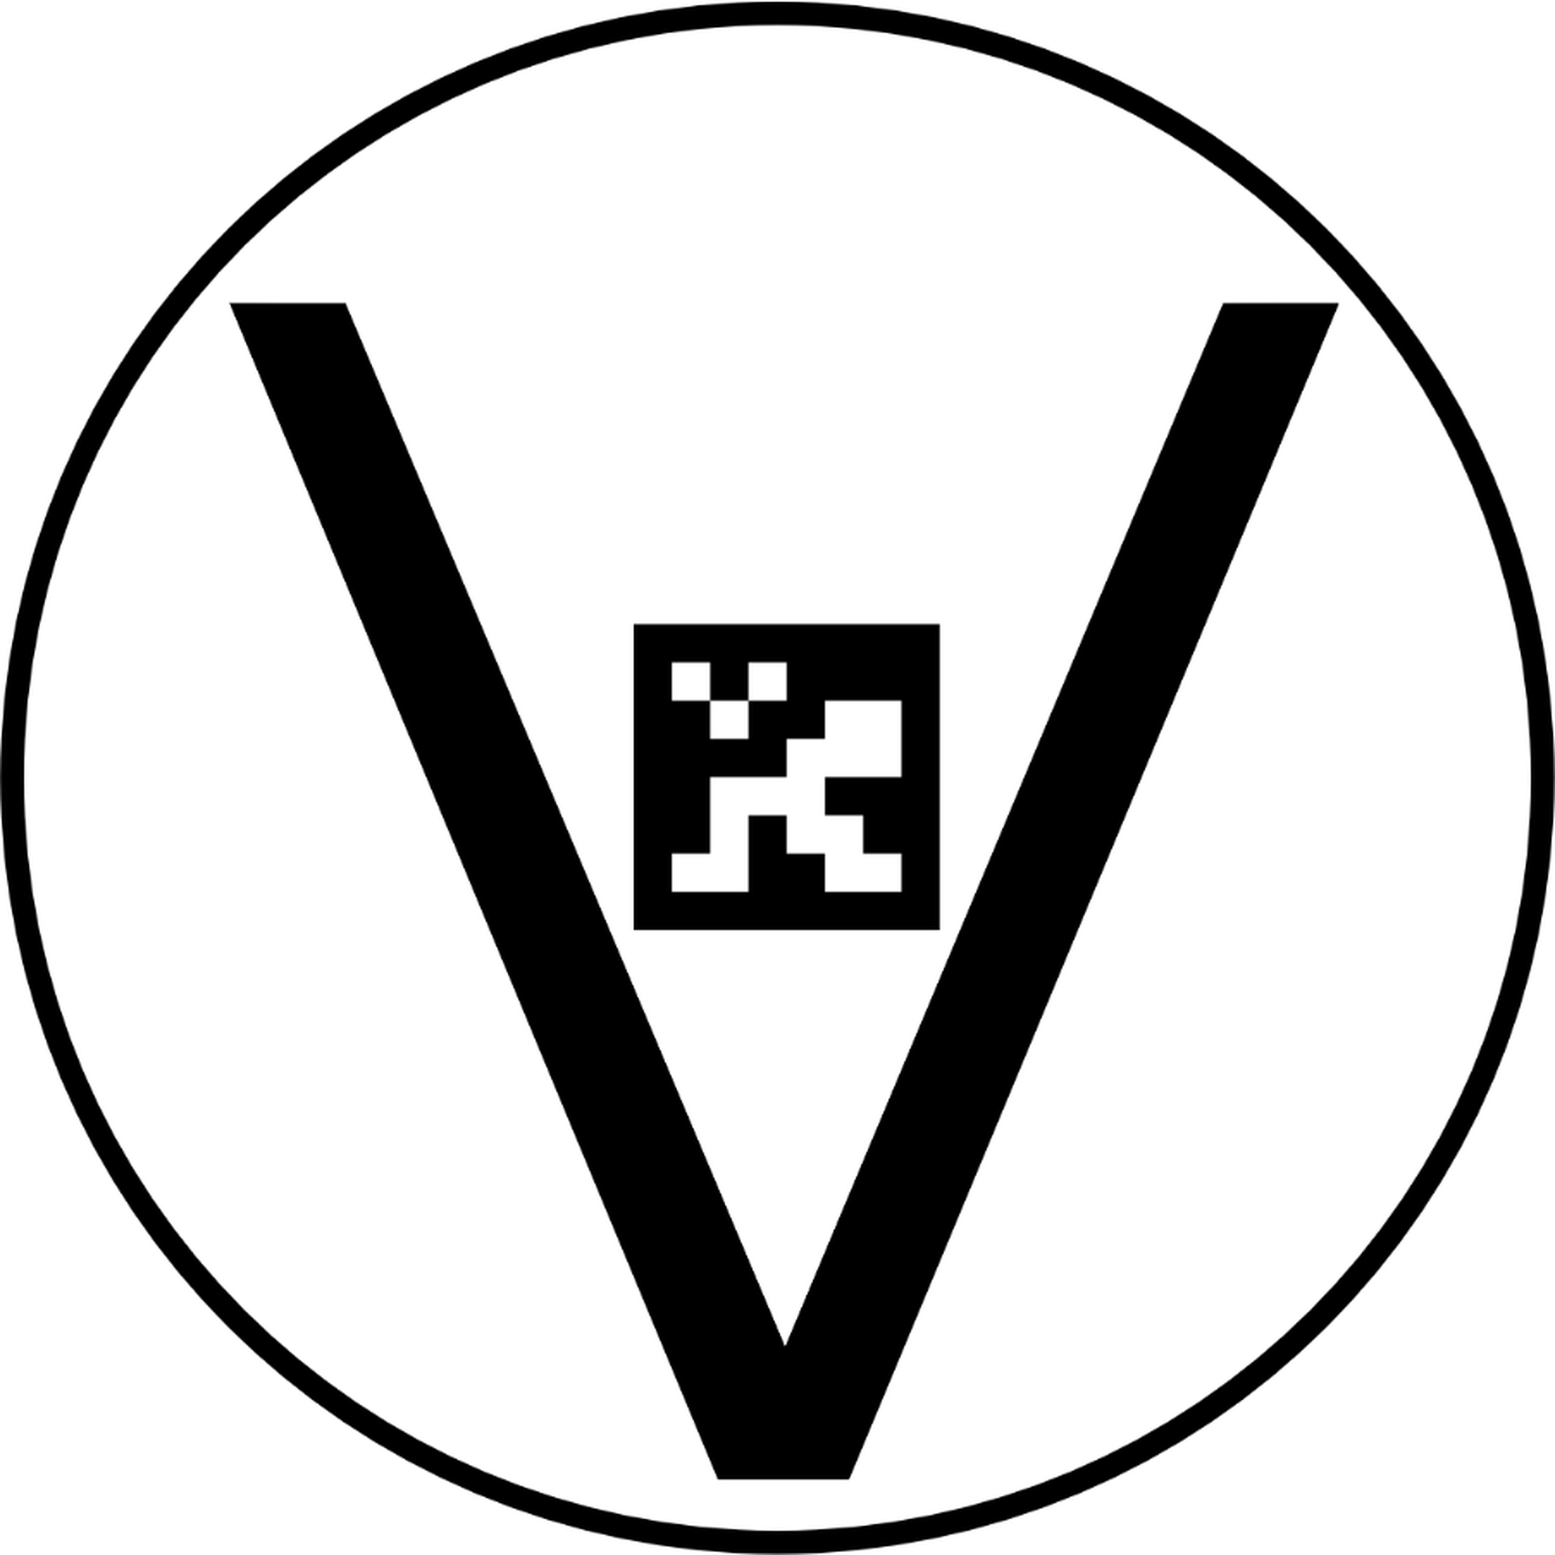
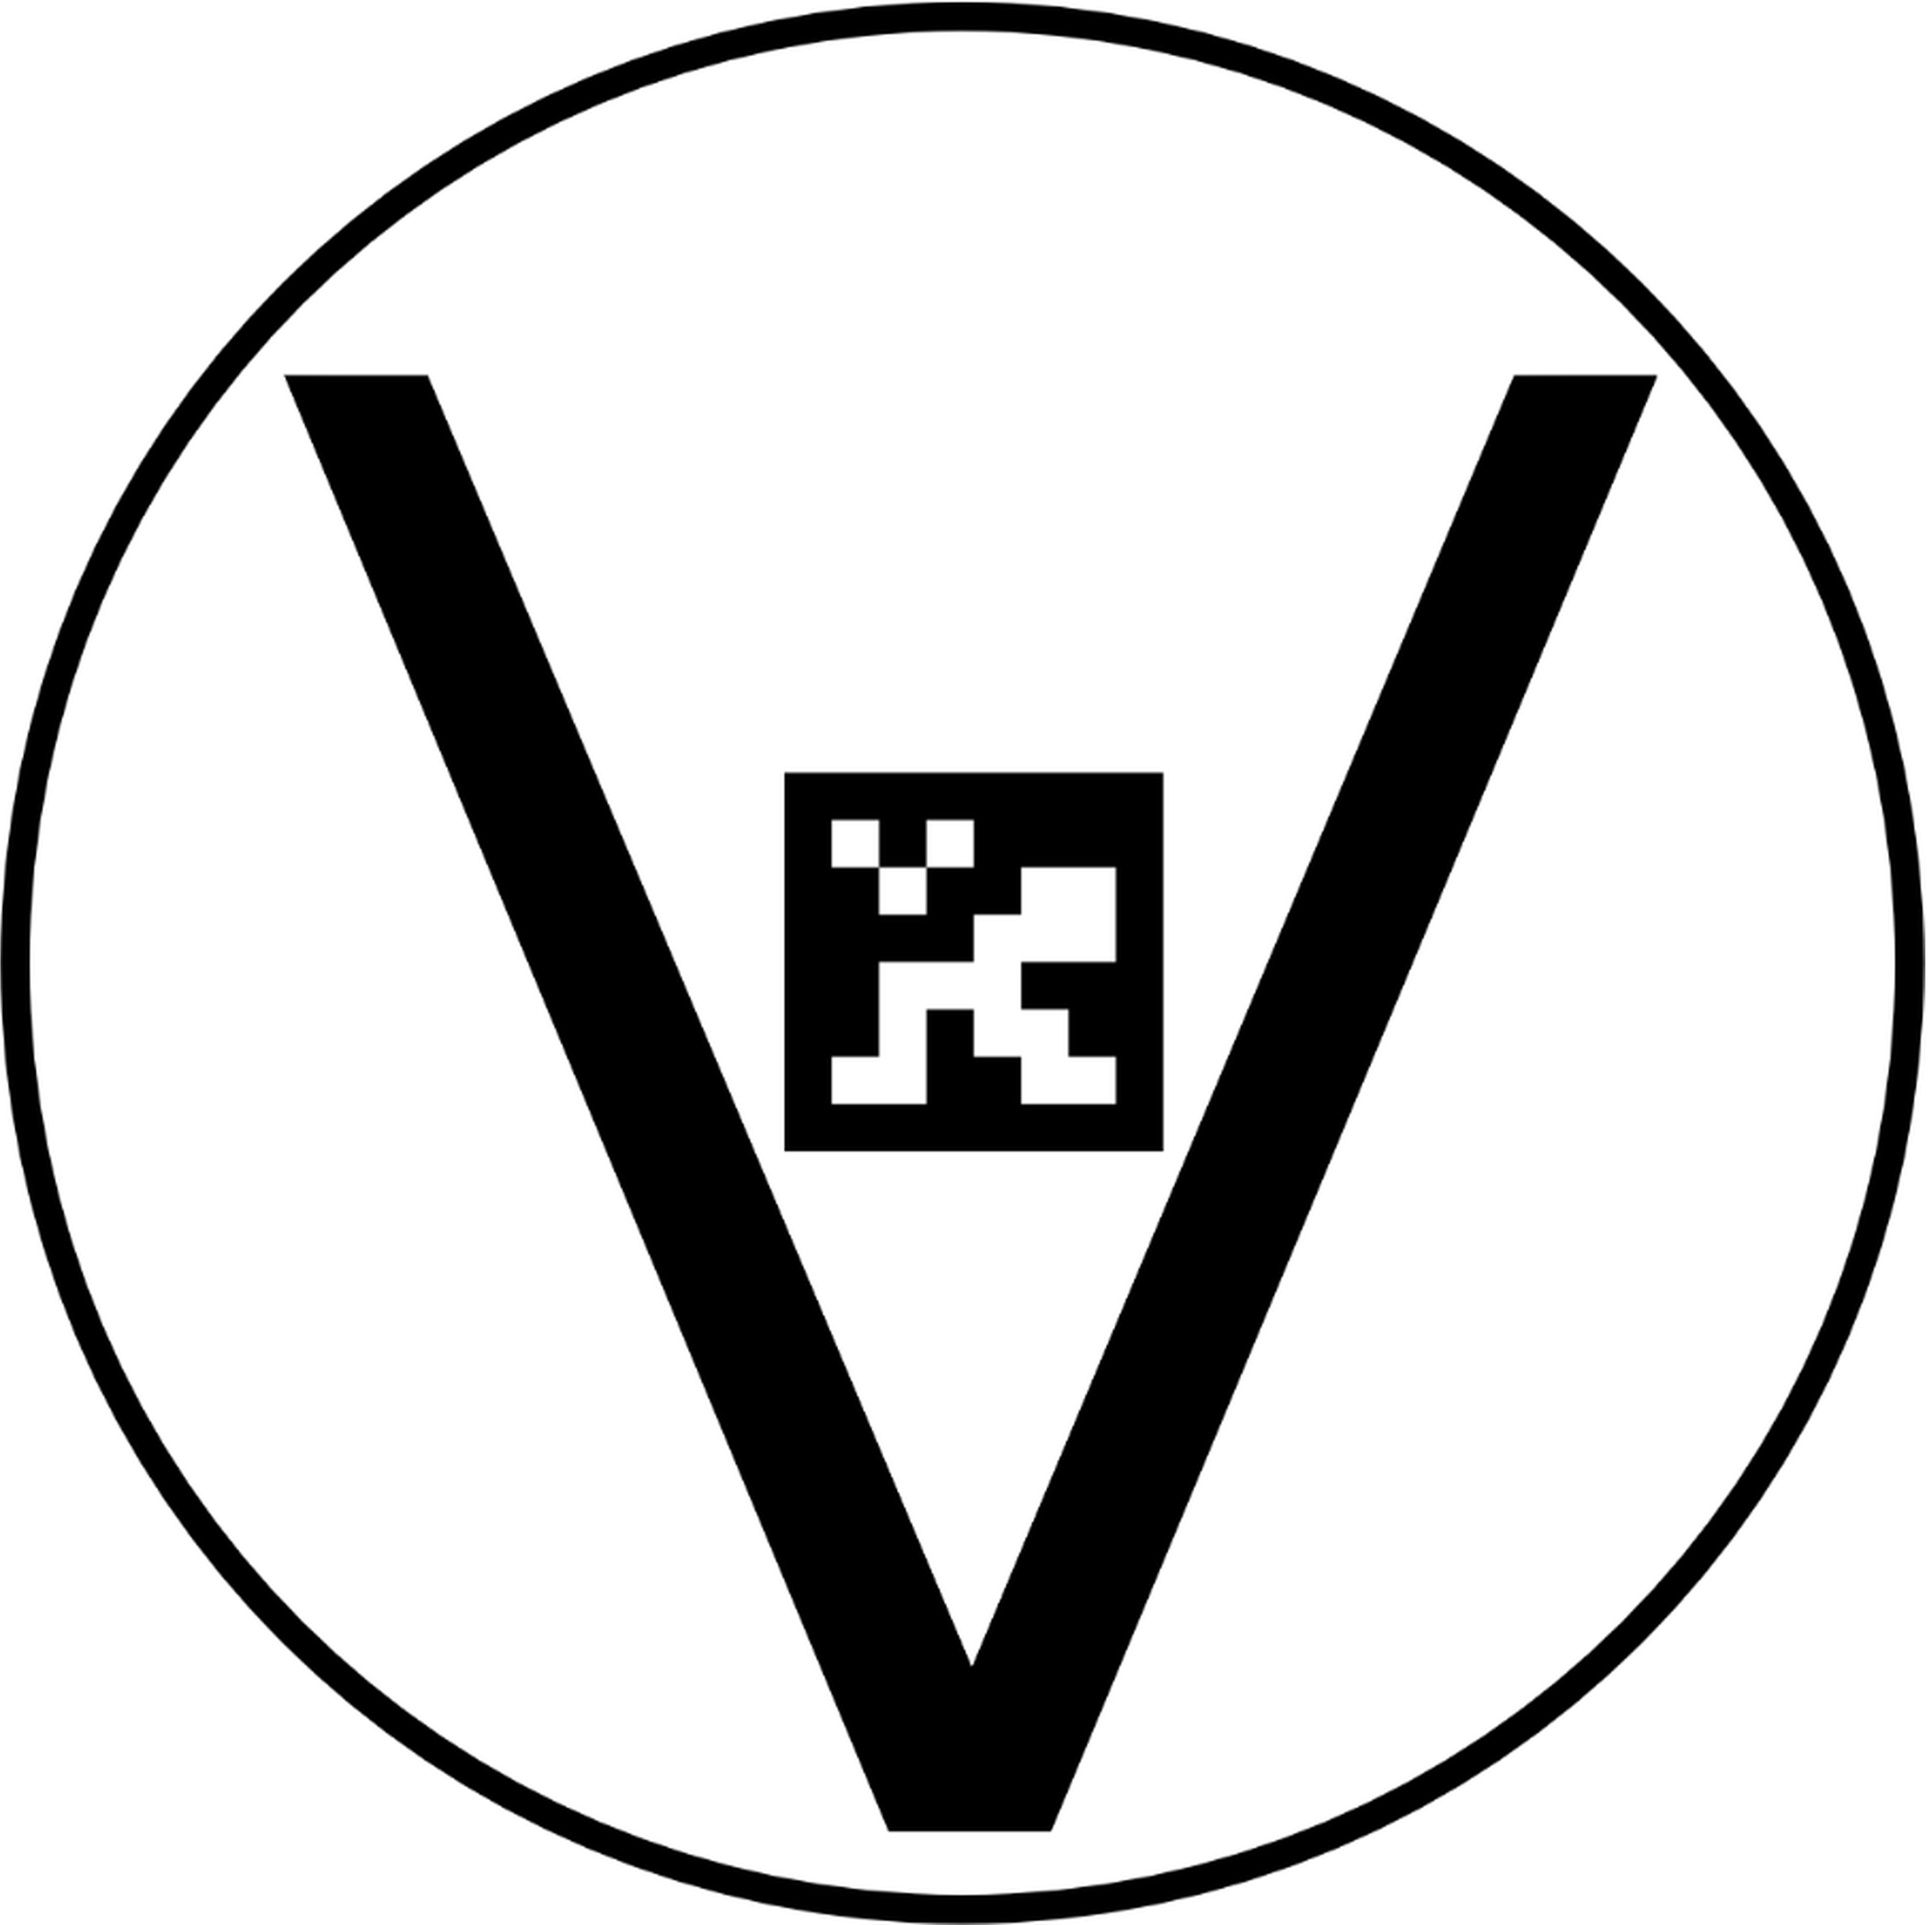
fix: 드론이 상공 35m에서 스폰되는 오류 수정, v marker 변경

diff --git a/docs/run_manual.md b/docs/run_manual.md
@@ -70,10 +70,16 @@ export GZ_SIM_RESOURCE_PATH=~/precision-landing/simulation/models:\
 ~/precision-landing/simulation/worlds:\
 ${GZ_SIM_RESOURCE_PATH}
 
-# 드론 35m 상공 스폰, precision_landing 월드 사용
-PX4_GZ_MODEL_POSE="0,0,35,0,0,0" \
+# 드론 지상 근처 스폰, precision_landing 월드 사용
+PX4_GZ_MODEL_POSE="0,0,0.5,0,0,0" \
 PX4_GZ_WORLD=precision_landing \
 make px4_sitl gz_x500_mono_cam_down
+```
+
+PX4 콘솔이 열리면 아래 명령으로 35m까지 이륙한다.
+
+```
+pxh> commander takeoff 35
 ```
 
 > **대안 — export가 적용되지 않을 경우**: PX4 모델/월드 디렉터리에 심볼릭 링크를 생성하면 환경 변수 없이도 인식된다.
@@ -106,13 +112,16 @@ source ~/precision-landing/pl_ws/install/setup.bash
 ros2 launch pl_bringup precision_landing_sitl.launch.py
 ```
 
-### 터미널 4: 착륙 시퀀스 시작
+### 터미널 4: 이륙 및 착륙 시퀀스 시작
 
 ```bash
 source /opt/ros/humble/setup.bash
 source ~/precision-landing/pl_ws/install/setup.bash
 
-# 착륙 시작
+# 터미널 1 PX4 콘솔에서 이륙 후 35m 도달 확인
+# pxh> commander takeoff 35
+
+# 착륙 시퀀스 시작
 ros2 service call /landing_controller_node/start_landing std_srvs/srv/Trigger
 
 # 상태 모니터링

diff --git a/CLAUDE.md b/CLAUDE.md
@@ -18,7 +18,7 @@ source install/setup.bash
 # export 대신 심볼릭 링크로 등록하는 게 더 안정적
 ln -s ~/precision-landing/simulation/models/v_marker ~/PX4-Autopilot/Tools/simulation/gz/models/v_marker
 ln -s ~/precision-landing/simulation/worlds/precision_landing.sdf ~/PX4-Autopilot/Tools/simulation/gz/worlds/precision_landing.sdf
-PX4_GZ_MODEL_POSE="0,0,35,0,0,0" PX4_GZ_WORLD=precision_landing make px4_sitl gz_x500_mono_cam_down
+PX4_GZ_MODEL_POSE="0,0,0.5,0,0,0" PX4_GZ_WORLD=precision_landing make px4_sitl gz_x500_mono_cam_down
 MicroXRCEAgent udp4 -p 8888
 ros2 launch pl_bringup precision_landing_sitl.launch.py
 

diff --git a/docs/architecture.md b/docs/architecture.md
@@ -598,8 +598,8 @@ $$f_x = \frac{W}{2\,\tan(\theta_H / 2)} = \frac{1280}{2\,\tan(0.87)} \approx 740
 ### 9.4 드론 스폰 설정
 
 ```bash
-# 35m 상공, 마커 정 상공에서 시작
-PX4_GZ_MODEL_POSE="0,0,35,0,0,0" \
+# 지상 근처(0.5m)에서 스폰 — 이륙 후 35m 고도에서 착륙 시퀀스 시작
+PX4_GZ_MODEL_POSE="0,0,0.5,0,0,0" \
 PX4_GZ_WORLD=precision_landing \
 make px4_sitl gz_x500_mono_cam_down
 ```
